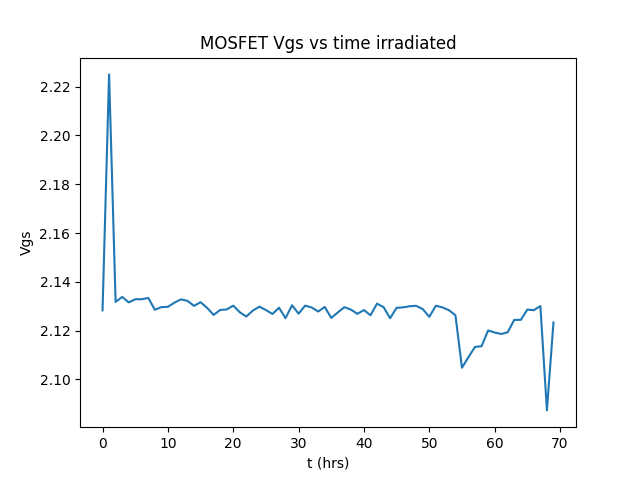
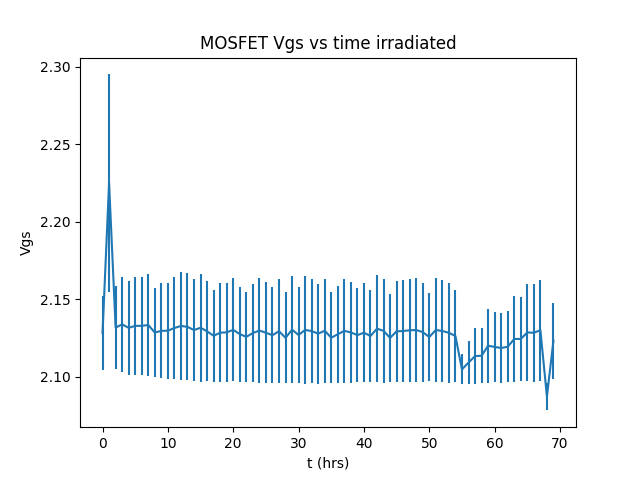
added err bars

diff --git a/analysis.py b/analysis.py
@@ -3,7 +3,7 @@ import numpy as np
 import matplotlib.pyplot as plt
 import scipy.stats as stats
 
-data_file = 'Data/mosfet_beta92_overnight.xml'
+data_file = 'Data/mosfet_overweekend_beta.xml'
 tree = ET.parse(data_file) 
 root = tree.getroot()
 datasets = []
@@ -29,6 +29,7 @@ times = range(0,len(root))
 # Y1p = np.poly1d(z)
 
 threshold_voltages = []
+threshold_voltages_errors = []
 for dataset in datasets:
     currents = dataset[0][0]
     current_std = dataset[0][1]
@@ -41,9 +42,11 @@ for dataset in datasets:
         if change_in_current > largest_change_in_current:
             largest_change_in_current = change_in_current
             threshold_voltage = (voltages[i] + voltages[i+1]) / 2
+            threshold_voltages_error = np.abs((voltages[i+1] - voltages[i])/2)
     threshold_voltages.append(threshold_voltage)
+    threshold_voltages_errors.append(threshold_voltages_error)
 
-plt.errorbar(times, threshold_voltages)
+plt.errorbar(times, threshold_voltages, yerr = threshold_voltages_errors)
 title = "MOSFET Vgs vs time irradiated"
 # plt.legend()
 plt.title(title)
